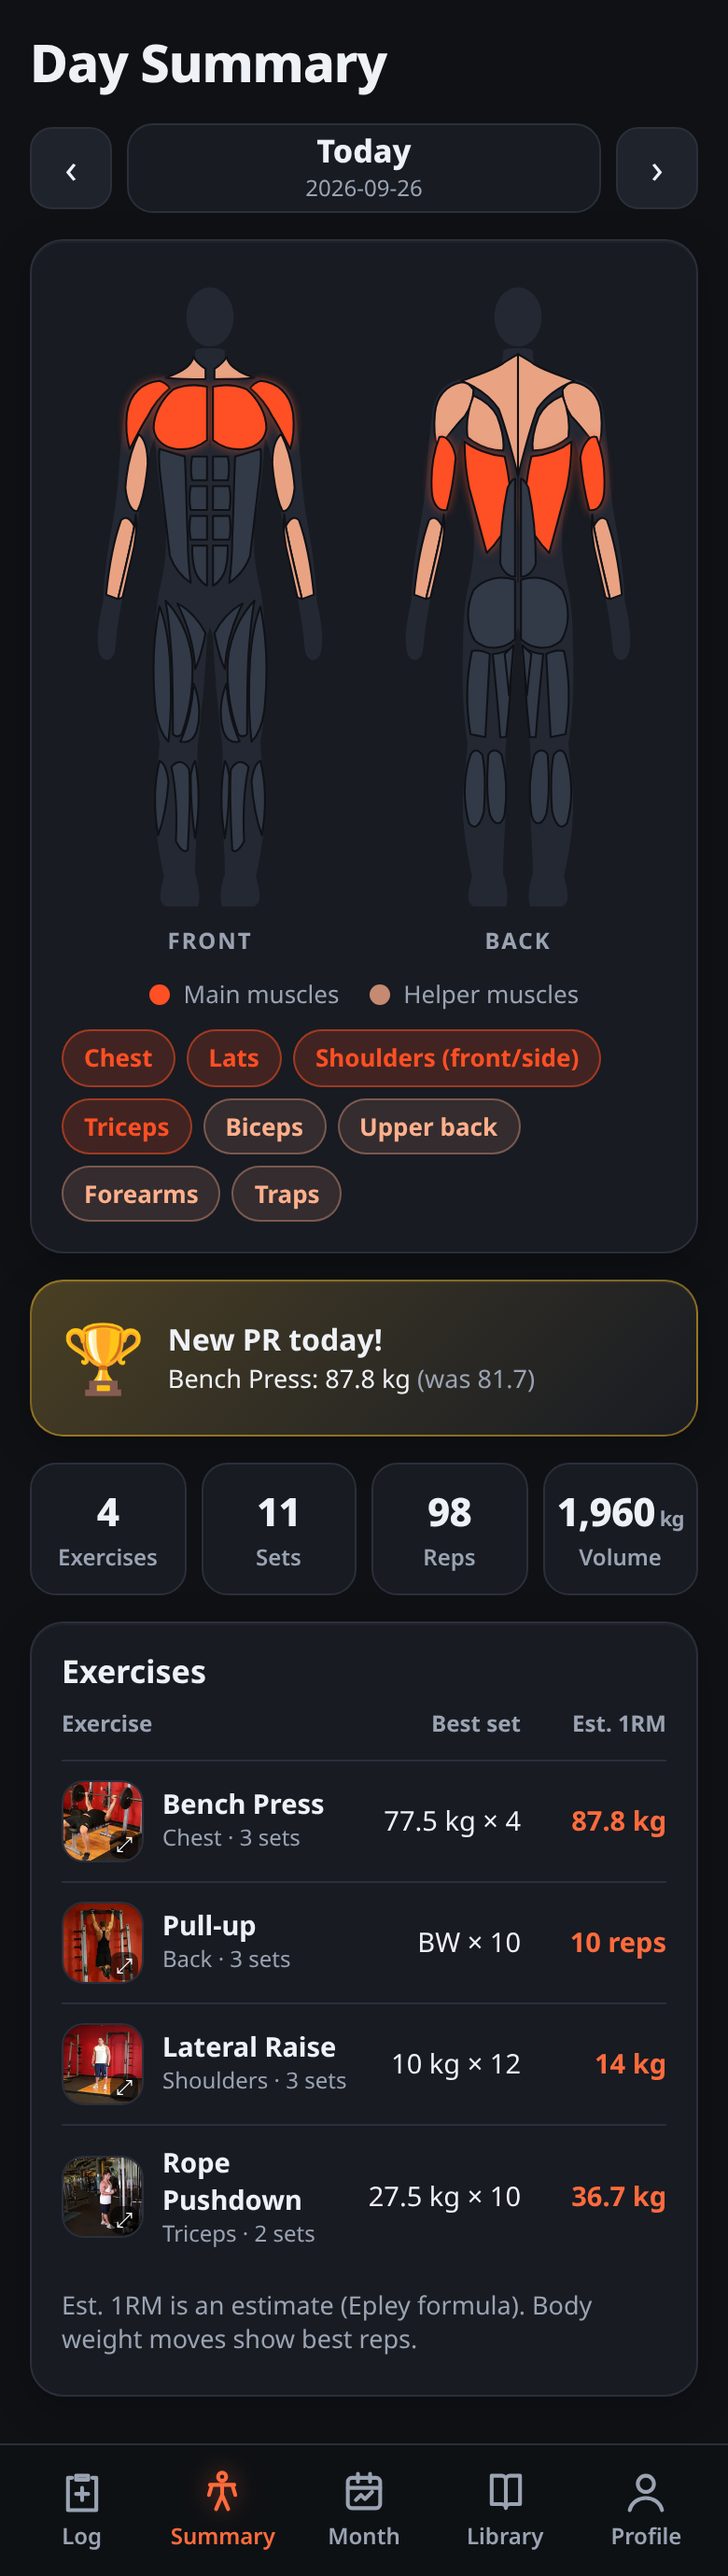
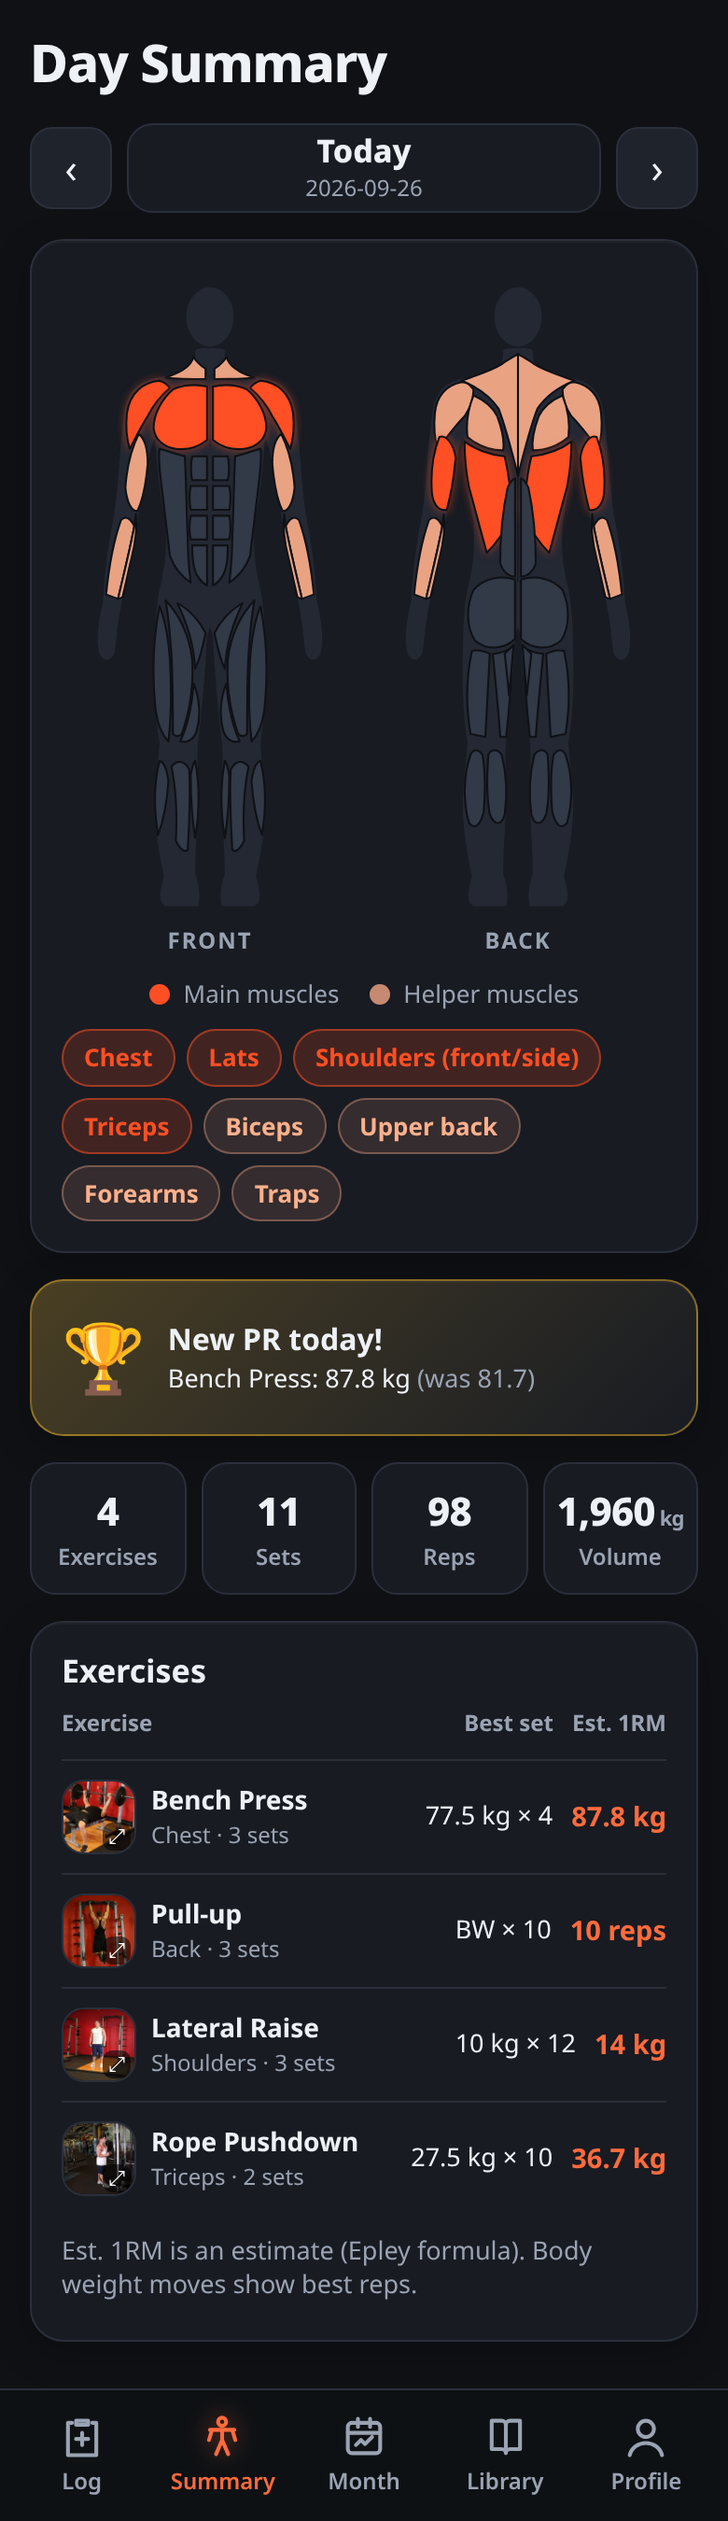
Summary table: compact columns with thumbnails; SW cache v3

diff --git a/src/pages/DayPage.tsx b/src/pages/DayPage.tsx
@@ -59,7 +59,7 @@ export default function DayPage({ date, setDate, goLog }: { date: string; setDat
                 const ex = m.get(en.exId); const st = entryStats(en);
                 return (
                   <div className="tr" key={en.id}>
-                    <span className="tr-ex">{ex && <ExThumb ex={ex} size={44} />}<span><b>{ex?.name}</b><small className="muted"> {ex ? partLabel(ex.part) : ''} · {st.sets} sets</small></span></span>
+                    <span className="tr-ex">{ex && <ExThumb ex={ex} size={40} />}<span><b>{ex?.name}</b><small className="muted"> {ex ? partLabel(ex.part) : ''} · {st.sets} sets</small></span></span>
                     <span>{st.bestSet ? `${st.bestSet.w ? fmt(st.bestSet.w) + ' kg' : 'BW'} × ${st.bestSet.r}` : '–'}</span>
                     <span className="strong">{ex?.bw ? `${st.maxReps} reps` : `${fmt(st.best)} kg`}</span>
                   </div>

diff --git a/public/sw.js b/public/sw.js
@@ -1,5 +1,5 @@
 // Simple offline cache. Network first for pages, cache first for files.
-const CACHE = 'fitness-log-v2'; // bump this on each release so old caches are dropped
+const CACHE = 'fitness-log-v3'; // bump this on each release so old caches are dropped
 self.addEventListener('install', (e) => { self.skipWaiting(); e.waitUntil(caches.open(CACHE).then((c) => c.addAll(['./', './index.html', './manifest.webmanifest', './icon.svg']))); });
 self.addEventListener('activate', (e) => { e.waitUntil(caches.keys().then((ks) => Promise.all(ks.filter((k) => k !== CACHE).map((k) => caches.delete(k)))).then(() => self.clients.claim())); });
 self.addEventListener('fetch', (e) => {

diff --git a/src/index.css b/src/index.css
@@ -338,3 +338,9 @@ input:focus, select:focus, textarea:focus { border-color: var(--accent); box-sha
 .credit a, .card a { color: var(--accent); }
 .eq-icon { color: var(--accent); background: linear-gradient(145deg, color-mix(in srgb, var(--accent) 16%, var(--card2)), var(--card2)); width: 56px; height: 56px; }
 .eq-icon .eq-svg { width: 38px; height: 38px; }
+.tr { grid-template-columns: minmax(0, 1fr) auto auto; gap: 10px; }
+.tr > span:nth-child(2), .tr > span:nth-child(3) { white-space: nowrap; }
+.tr > span:nth-child(2) { font-size: 13.5px; }
+.tr-ex { gap: 8px; }
+.tr-ex b { font-size: 14px; }
+.tr.th > span { font-size: 12px !important; }
